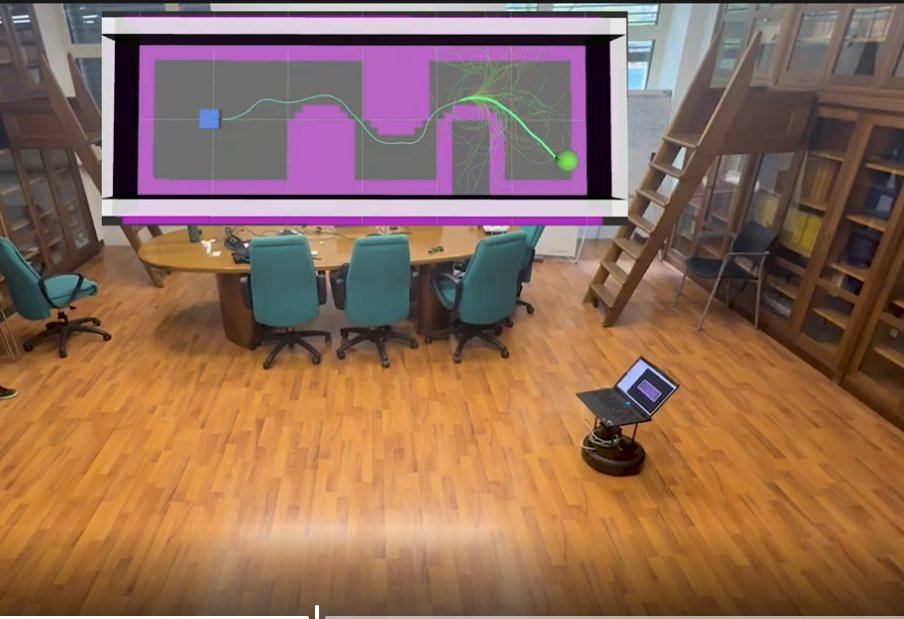
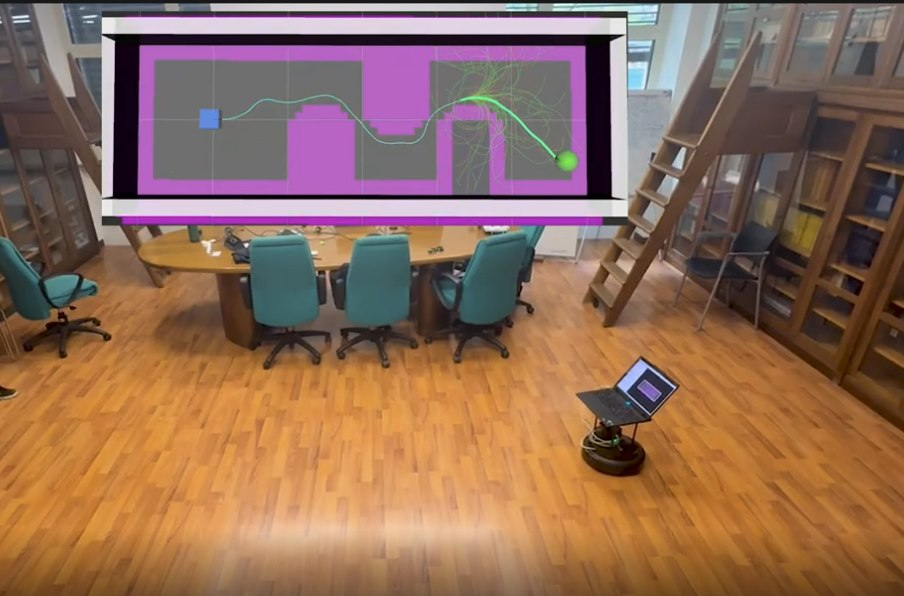
Update project details and improve layout in MPPI section; refine CV and contact information

diff --git a/index.html b/index.html
@@ -157,7 +157,7 @@
             </div>
             <div class="meta-item">
               <span class="meta-item__label" data-i18n="hero.meta_location_label">Basé à</span>
-              <span class="meta-item__value">Limoges · Paris, FR</span>
+              <span class="meta-item__value">Paris, FR</span>
             </div>
             <div class="meta-item">
               <span class="meta-item__label" data-i18n="hero.meta_school_label">École</span>
@@ -184,7 +184,7 @@
 
           <div class="about__body">
             <p class="about__lead" data-i18n="about.lead">Élève-ingénieur en mécatronique passionné par l'Embodied AI : donner à des robots la perception et le contrôle nécessaires pour agir de façon autonome dans le monde réel.</p>
-            <p data-i18n="about.body">Mon travail se situe à la frontière entre la perception et la décision - de la segmentation sémantique embarquée jusqu'au contrôle prédictif sous incertitude. Au Politecnico di Torino (DIMEAS), j'ai développé une carte de risque par caméra RGB-D et un contrôleur GPU MPPI qui en tient compte, avec un modèle mathématique validé qui prédit son comportement. Je rejoins l'ISAE-Supméca ( Mécatronique & systèmes complexes ) à la rentrée 2026 pour mon année d'échange de fin d'études, et je recherche un stage de fin d'études (mars – septembre 2027) en robotique, perception ou contrôle au sein d'une équipe de pointe en Embodied AI.</p>
+            <p data-i18n="about.body">Mon travail se situe à la frontière entre la perception et la décision - de la segmentation sémantique embarquée jusqu'au contrôle prédictif sous incertitude. Au Politecnico di Torino (DIMEAS), j'ai développé une carte de risque par caméra RGB-D et un contrôleur GPU MPPI qui en tient compte, avec un modèle mathématique validé qui prédit son comportement. Je suis actuellement en année d'échange de fin d'études à l'ISAE-Supméca (« Mécatronique & systèmes complexes »), et je recherche un stage de fin d'études (mars – septembre 2027) en robotique, perception ou contrôle au sein d'une équipe de pointe en Embodied AI.</p>
 
             <div class="stats">
               <div class="stat">
@@ -221,7 +221,8 @@
             <span class="project__year">2026</span>
           </div>
           <div class="project__media">
-            <img src="assets/images/projects/MPPI/TurtleBot4_web-9-scaled.jpg" alt="Visualisation MPPI: trajectoires et zones de risque" loading="lazy" />
+            <img src="assets/images/projects/MPPI/real-robot-mppi.jpg" alt="TurtleBot 4 réel en salle de test, avec les trajectoires candidates du MPPI projetées au-dessus" loading="lazy" />
+            <img src="assets/images/projects/MPPI/gazebo-rviz.jpg" alt="Simulation Gazebo de l'entrepôt avec zones à risque, et costmap de risque dans RViz" loading="lazy" />
           
           </div>
           <div class="project__body">
@@ -448,7 +449,7 @@
             <div class="timeline__body">
               <img class="timeline__org-logo" src="assets/images/logos/stellantis.png" alt="Stellantis" />
               <h3 class="timeline__role" data-i18n="experience.stellantis.role">Opérateur ligne d'assemblage: Stage</h3>
-              <p class="timeline__company">Stellantis Poissy · Groupe PSA<span class="timeline__loc">: France</span></p>
+              <p class="timeline__company">Stellantis · Poissy<span class="timeline__loc">: France</span></p>
               <ul class="timeline__points">
                 <li data-i18n="experience.stellantis.p1">Opérations sur la ligne d'assemblage finale (Mokka, DS 3 Crossback).</li>
                 <li data-i18n="experience.stellantis.p2">Respect strict des quotas de production, des standards de qualité et des protocoles de sécurité.</li>
@@ -519,7 +520,7 @@
             <span class="edu-item__date">2024 – 2027</span>
             <div>
               <img class="edu-item__logo" src="assets/images/logos/ensil-ensci.png" alt="ENSIL-ENSCI" />
-              <h3 class="edu-item__degree" data-i18n="education.engineering">Cycle ingénieur: Mécatronique & Robotique (4ᵉ année)</h3>
+              <h3 class="edu-item__degree" data-i18n="education.engineering">Cycle ingénieur: Mécatronique, Robotique & Automatisation</h3>
               <p class="edu-item__school">ENSIL-ENSCI: École Nationale d'Ingénieurs de Limoges, France</p>
             </div>
           </li>
@@ -538,7 +539,7 @@
             <span class="edu-item__date">2014 – 2021</span>
             <div>
               <img class="edu-item__logo" src="assets/images/logos/st-augustin.png" alt="St Augustin Secondary School" />
-              <h3 class="edu-item__degree" data-i18n="education.bac">Baccalauréat scientifique: GPA 3.332</h3>
+              <h3 class="edu-item__degree" data-i18n="education.bac">Baccalauréat scientifique (série C): mention Très Bien, 16,66/20</h3>
               <p class="edu-item__school">St Augustin Secondary School: Bénin</p>
             </div>
           </li>
@@ -644,8 +645,12 @@
 
         <div class="contact__links">
           <a href="mailto:justin.ngblogni@etu.unilim.fr" class="contact-link">
-            <span class="contact-link__label">Email</span>
+            <span class="contact-link__label">Email · ENSIL</span>
             <span class="contact-link__value">justin.ngblogni@etu.unilim.fr</span>
+          </a>
+          <a href="mailto:justin.ngblogni@isae-supmeca.fr" class="contact-link">
+            <span class="contact-link__label">Email · ISAE</span>
+            <span class="contact-link__value">justin.ngblogni@isae-supmeca.fr</span>
           </a>
           <a href="https://linkedin.com/in/justin-ngblogni" target="_blank" rel="noopener" class="contact-link">
             <span class="contact-link__label">LinkedIn</span>
@@ -656,8 +661,12 @@
             <span class="contact-link__value">@Justinamenngblogni</span>
           </a>
           <a href="tel:+33627060085" class="contact-link">
-            <span class="contact-link__label">Téléphone</span>
+            <span class="contact-link__label" data-i18n="contact.phone_label">Téléphone</span>
             <span class="contact-link__value">+33 6 27 06 00 85</span>
+          </a>
+          <a href="assets/docs/Cv%20Justin%20fr.pdf" id="cv-link-contact" class="contact-link" target="_blank" rel="noopener">
+            <span class="contact-link__label">CV</span>
+            <span class="contact-link__value" data-i18n="contact.cv_value">Télécharger (PDF)</span>
           </a>
         </div>
       </div>

diff --git a/assets/js/main.js b/assets/js/main.js
@@ -35,7 +35,7 @@ const TRANSLATIONS = {
     about: {
       heading: "À propos",
       lead: "Élève-ingénieur en mécatronique passionné par l'Embodied AI : donner à des robots la perception et le contrôle nécessaires pour agir de façon autonome dans le monde réel.",
-      body: "Mon travail se situe à la frontière entre la perception et la décision - de la segmentation sémantique embarquée jusqu'au contrôle prédictif sous incertitude. Au Politecnico di Torino (DIMEAS), j'ai développé une carte de risque par caméra RGB-D et un contrôleur GPU MPPI qui en tient compte, avec un modèle mathématique validé qui prédit son comportement. Je rejoins l'ISAE-Supméca (« Mécatronique & systèmes complexes ») à la rentrée 2026 pour mon année d'échange de fin d'études, et je recherche un stage de fin d'études (mars – septembre 2027) en robotique, perception ou contrôle au sein d'une équipe de pointe en Embodied AI.",
+      body: "Mon travail se situe à la frontière entre la perception et la décision - de la segmentation sémantique embarquée jusqu'au contrôle prédictif sous incertitude. Au Politecnico di Torino (DIMEAS), j'ai développé une carte de risque par caméra RGB-D et un contrôleur GPU MPPI qui en tient compte, avec un modèle mathématique validé qui prédit son comportement. Je suis actuellement en année d'échange de fin d'études à l'ISAE-Supméca (« Mécatronique & systèmes complexes »), et je recherche un stage de fin d'études (mars – septembre 2027) en robotique, perception ou contrôle au sein d'une équipe de pointe en Embodied AI.",
       stat2: "Ans en IA & robotique",
       stat3: "Langues parlées",
       stat4: "Projets techniques"
@@ -121,9 +121,9 @@ const TRANSLATIONS = {
     education: {
       heading: "Formation",
       isae: "5ᵉ année (M2): Année d'échange · Mécatronique & systèmes complexes",
-      engineering: "Cycle ingénieur: Mécatronique & Robotique (4ᵉ année)",
+      engineering: "Cycle ingénieur: Mécatronique, Robotique & Automatisation",
       prep: "Classes préparatoires intégrées: Génie électrique",
-      bac: "Baccalauréat scientifique: GPA 3.332"
+      bac: "Baccalauréat scientifique (série C): mention Très Bien, 16,66/20"
     },
     certifications: {
       heading: "Certifications",
@@ -155,6 +155,8 @@ const TRANSLATIONS = {
     },
     contact: {
       heading: "Travaillons ensemble",
+      phone_label: "Téléphone",
+      cv_value: "Télécharger (PDF)",
       lead: "Fort d'un stage en perception et contrôle risk-aware au Politecnico di Torino, je recherche un stage de fin d'études en robotique, perception ou contrôle - disponible de mars à septembre 2027, mobilité internationale."
     },
     footer: {
@@ -187,7 +189,7 @@ const TRANSLATIONS = {
     about: {
       heading: "About",
       lead: "Mechatronics engineering student driven by Embodied AI - giving robots the perception and control they need to act autonomously in the real world.",
-      body: "My work sits at the boundary between perception and decision-making - from on-device semantic segmentation to predictive control under uncertainty. At Politecnico di Torino (DIMEAS), I built an RGB-D camera-based risk map and a GPU MPPI controller that acts on it, backed by a validated quantitative model of its behaviour. I join ISAE-Supméca (\"Mechatronics & Complex Systems\") in autumn 2026 for my final exchange year, and I am seeking a final-year internship (March – September 2027) in robotics, perception or control with a leading Embodied AI team.",
+      body: "My work sits at the boundary between perception and decision-making - from on-device semantic segmentation to predictive control under uncertainty. At Politecnico di Torino (DIMEAS), I built an RGB-D camera-based risk map and a GPU MPPI controller that acts on it, backed by a validated quantitative model of its behaviour. I am currently in my final-year exchange at ISAE-Supméca (\"Mechatronics & Complex Systems\"), and I am seeking a final-year internship (March – September 2027) in robotics, perception or control with a leading Embodied AI team.",
       stat2: "Years in AI & robotics",
       stat3: "Languages spoken",
       stat4: "Technical projects"
@@ -273,9 +275,9 @@ const TRANSLATIONS = {
     education: {
       heading: "Education",
       isae: "Final year (M2): Exchange year · Mechatronics & Complex Systems",
-      engineering: "Engineering cycle: Mechatronics & Robotics (4th year)",
+      engineering: "Engineering degree (M.Eng.): Mechatronics, Robotics & Automation",
       prep: "Integrated preparatory courses: Electrical engineering",
-      bac: "Scientific high school diploma: GPA 3.332"
+      bac: "Scientific baccalaureate (Series C): highest honours, 16.66/20"
     },
     certifications: {
       heading: "Certifications",
@@ -307,6 +309,8 @@ const TRANSLATIONS = {
     },
     contact: {
       heading: "Let's work together",
+      phone_label: "Phone",
+      cv_value: "Download (PDF)",
       lead: "Backed by an internship in risk-aware perception and control at Politecnico di Torino, I'm seeking a final-year internship in robotics, perception or control - available March to September 2027, worldwide mobility."
     },
     footer: {
@@ -340,12 +344,13 @@ function applyTranslations(lang) {
   });
 
   // Update CV link to match active language
-  const cvLink = document.getElementById("cv-link");
-  if (cvLink) {
-    cvLink.href = lang === "fr"
-      ? "assets/docs/Cv%20Justin%20fr.pdf"
-      : "assets/docs/Cv%20Justin%20en.pdf";
-  }
+  const cvHref = lang === "fr"
+    ? "assets/docs/Cv%20Justin%20fr.pdf"
+    : "assets/docs/Cv%20Justin%20en.pdf";
+  ["cv-link", "cv-link-contact"].forEach((id) => {
+    const link = document.getElementById(id);
+    if (link) link.href = cvHref;
+  });
 
   // Update meta description
   const metaDesc = document.querySelector('meta[name="description"]');

diff --git a/assets/projects/mppi.html b/assets/projects/mppi.html
@@ -86,7 +86,8 @@
     }
     .proj-page__img-wrap img { width: 100%; height: 100%; object-fit: cover; display: block; }
     .proj-page__img-placeholder { font-family: var(--font-mono); font-size: 12px; color: var(--muted); text-align: center; padding: 16px; }
-    .proj-page__gallery { grid-template-columns: repeat(auto-fit, minmax(min(100%, 480px), 1fr)); gap: 24px; }
+    .proj-page__gallery { grid-template-columns: repeat(auto-fit, minmax(min(100%, 340px), 1fr)); gap: 24px; }
+    .proj-page__hero-img--photo { aspect-ratio: auto; max-width: 960px; }
     .proj-page__fig { margin: 0; display: flex; flex-direction: column; gap: 8px; }
     .proj-page__img-wrap--figure { background: #fff; }
     .proj-page__img-wrap--figure img { object-fit: contain; padding: 8px; }
@@ -192,11 +193,11 @@
         </div>
       </div>
 
-      <!-- Image principale (déjà disponible depuis le portfolio) -->
+      <!-- Image principale : le vrai TurtleBot 4 en salle de test (tirée du rapport de stage) -->
       <img
-        class="proj-page__hero-img"
-        src="../images/projects/MPPI/TurtleBot4_web-9-scaled.jpg"
-        alt="Visualisation MPPI: trajectoires et zones de risque"
+        class="proj-page__hero-img proj-page__hero-img--photo"
+        src="../images/projects/MPPI/real-robot-mppi.jpg"
+        alt="TurtleBot 4 réel en salle de test, avec les trajectoires candidates du MPPI projetées au-dessus"
       />
 
       <!-- ── Le problème ── -->
@@ -273,12 +274,6 @@
             <figcaption>Simulation Gazebo (warehouse_risk) et costmap de risque dans RViz</figcaption>
           </figure>
 
-          <figure class="proj-page__fig">
-            <a class="proj-page__img-wrap" href="../images/projects/MPPI/real-robot-mppi.jpg" target="_blank" rel="noopener">
-              <img src="../images/projects/MPPI/real-robot-mppi.jpg" alt="TurtleBot 4 réel en salle de test, avec les trajectoires candidates du MPPI projetées au-dessus" loading="lazy" />
-            </a>
-            <figcaption>TurtleBot 4 réel : trajectoires candidates du MPPI autour des zones à risque</figcaption>
-          </figure>
 
         </div>
       </div>
